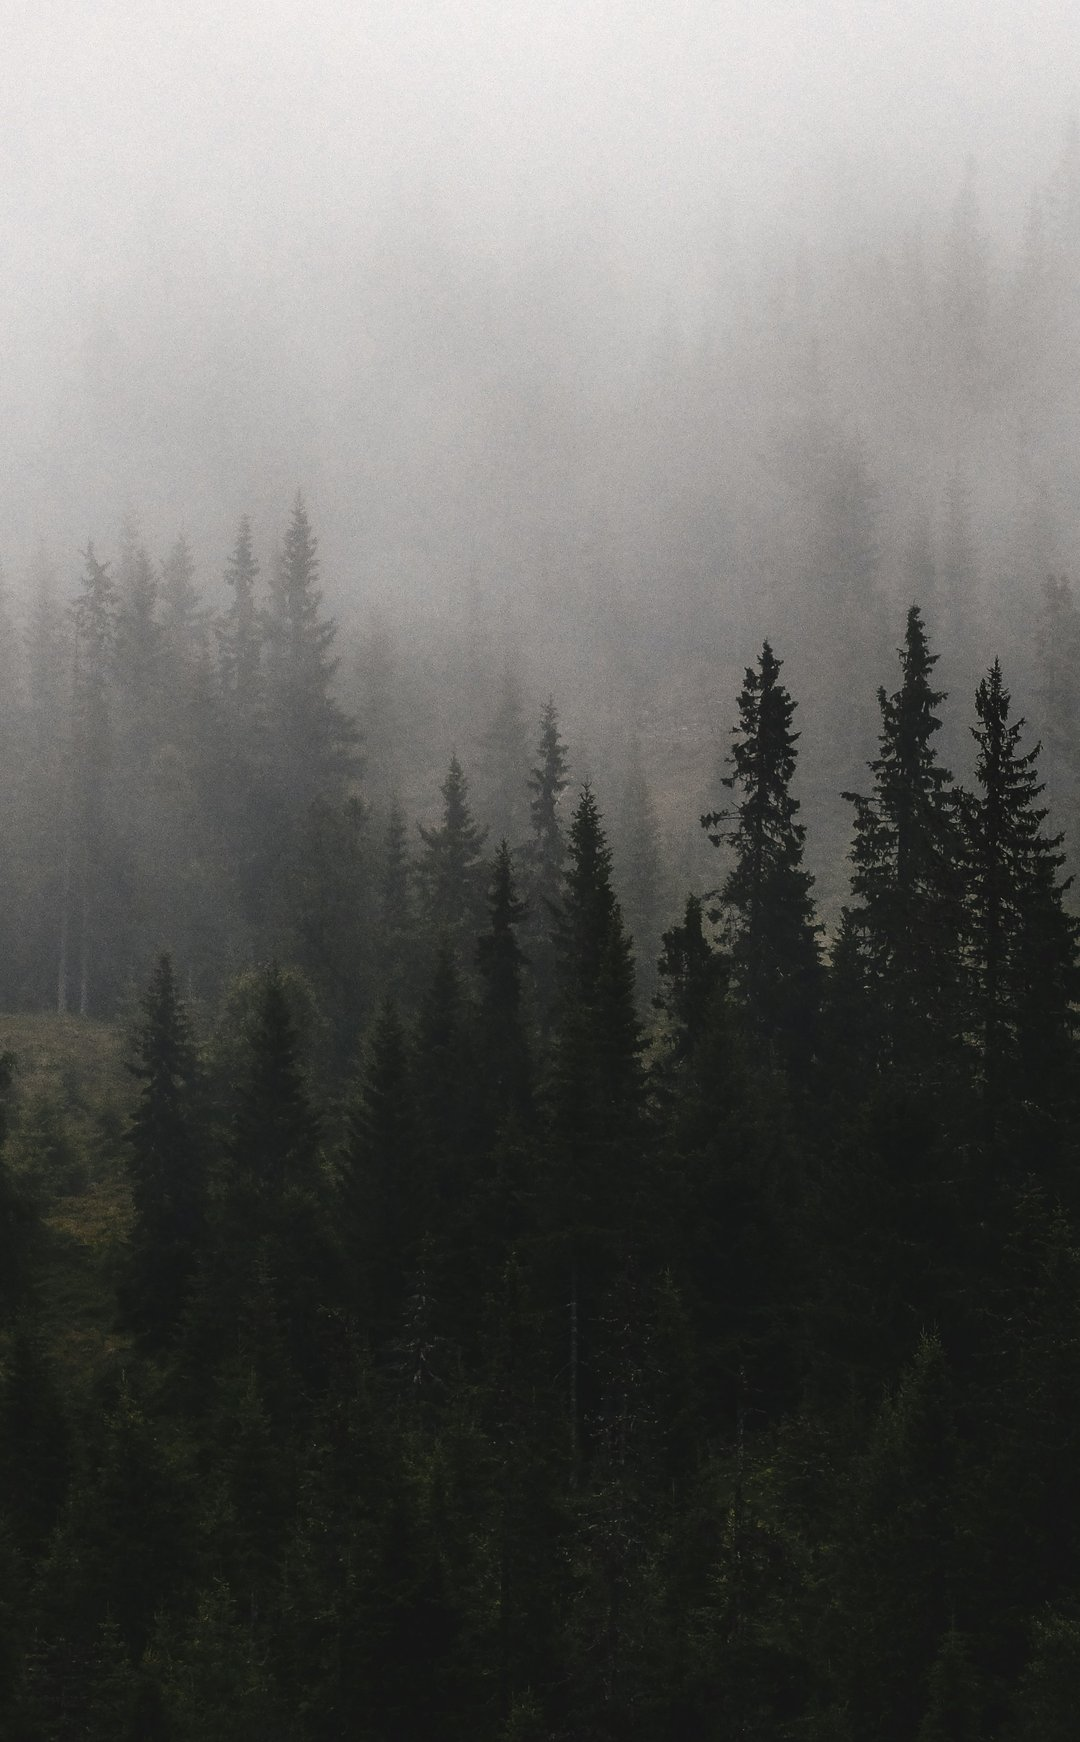
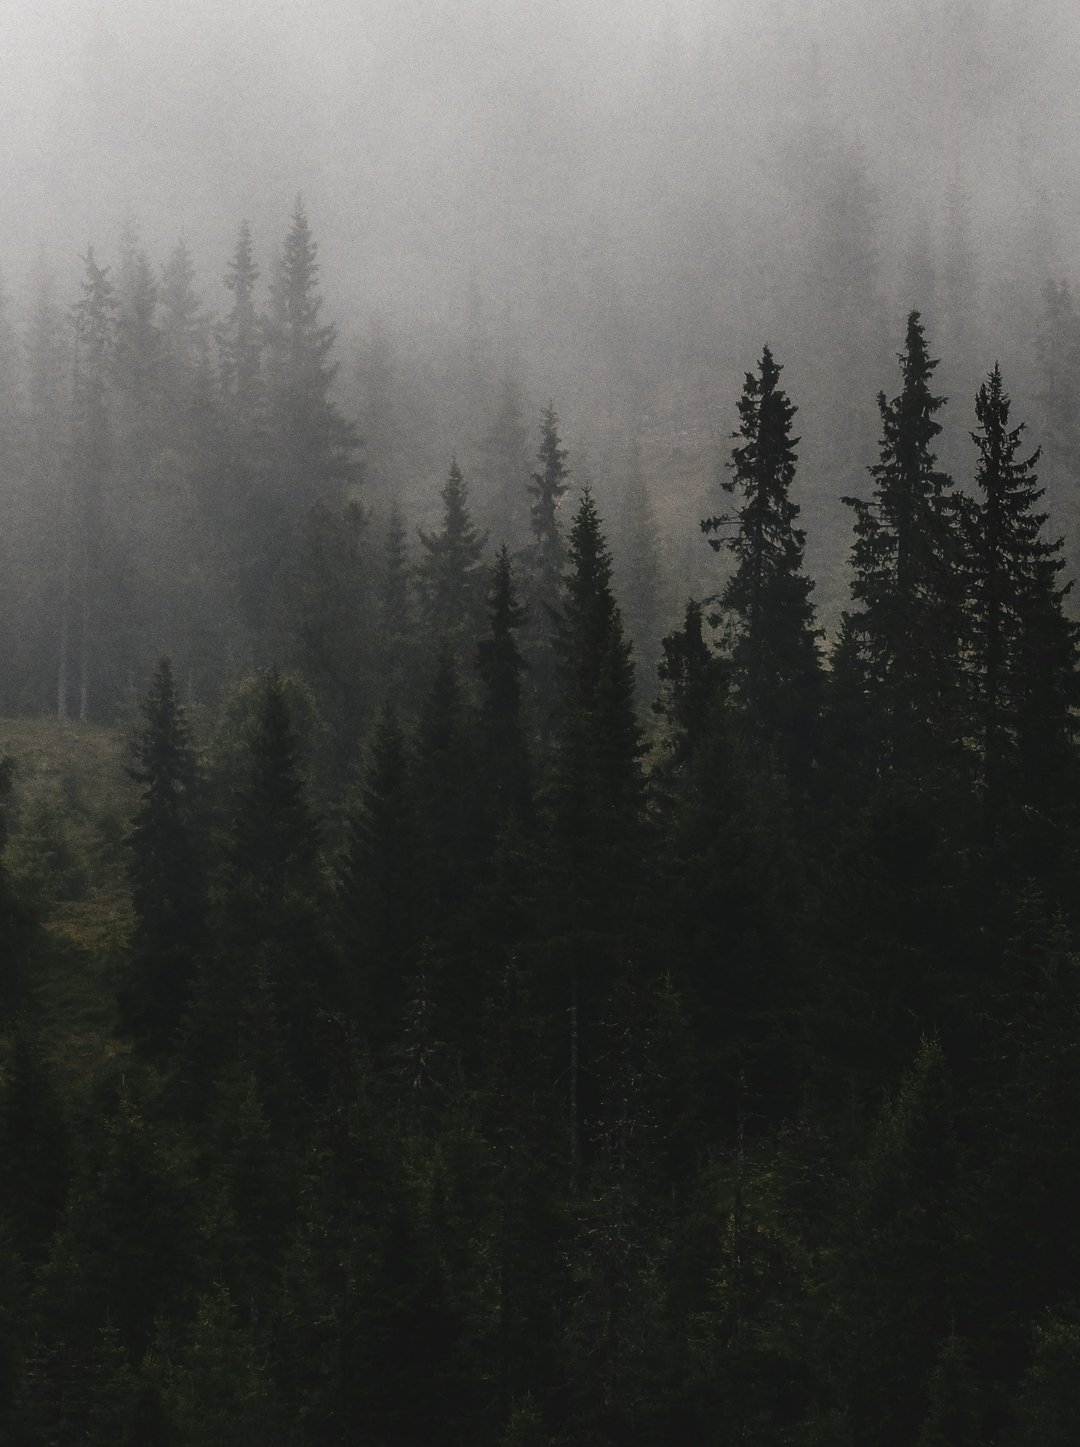
fix: login mobil - varfurile brazilor urca in spatele wordmark-ului
Decupajul anterior folosea deja aproape toata inaltimea sursei (nu mai
era loc sa "coboare" felia fara sa schimb raportul de aspect). Scurtat
efectiv fereastra pe verticala (sar peste mai multa ceata goala de sus)
- varfurile de brad ajung acum vizibile in treimea superioara, ca
siluete subtiri prin ceata, nu masa densa; masa densa ramane doar in
jumatatea de jos. Zona din spatele wordmark-ului ramane calma/cetoasa.

Verificat cu o simulare a crop-ului real de telefon (extractie
centrata la raportul unui ecran ingust, peste noul fisier) inainte de
push, nu doar fisierul brut.

Text-shadow pe wordmark/tagline usor intarit, ca plasa de siguranta
suplimentara acum ca varfurile de copaci sunt mai aproape.

Inchide Pas 4.

diff --git a/components/auth/AuthScreen.jsx b/components/auth/AuthScreen.jsx
@@ -68,8 +68,8 @@ export default function AuthScreen() {
       <div style={{ position: "fixed", top: 0, left: 0, width: "100vw", height: "100vh", background: "radial-gradient(ellipse 60% 45% at 50% 58%, rgba(244,242,237,0.08) 0%, rgba(244,242,237,0) 70%)", zIndex: 1, pointerEvents: "none" }} />
 
       <div style={{ position: "relative", zIndex: 2, width: "100%", maxWidth: 400, display: "flex", flexDirection: "column", alignItems: "center" }}>
-        <h1 style={{ fontFamily: serif, fontSize: 46, fontWeight: 600, color: C.ivory, letterSpacing: "0.02em", margin: "0 0 8px", lineHeight: 1, textShadow: "0 2px 10px rgba(10,16,13,0.75), 0 1px 3px rgba(10,16,13,0.9)" }}>nora</h1>
-        <p style={{ fontFamily: sans, fontSize: 11, color: C.ivory, opacity: 0.9, letterSpacing: "0.07em", margin: "0 0 40px", textAlign: "center", textShadow: "0 2px 8px rgba(10,16,13,0.75), 0 1px 3px rgba(10,16,13,0.9)" }}>
+        <h1 style={{ fontFamily: serif, fontSize: 46, fontWeight: 600, color: C.ivory, letterSpacing: "0.02em", margin: "0 0 8px", lineHeight: 1, textShadow: "0 2px 14px rgba(8,13,10,0.85), 0 1px 4px rgba(8,13,10,1)" }}>nora</h1>
+        <p style={{ fontFamily: sans, fontSize: 11, color: C.ivory, opacity: 0.9, letterSpacing: "0.07em", margin: "0 0 40px", textAlign: "center", textShadow: "0 2px 10px rgba(8,13,10,0.85), 0 1px 4px rgba(8,13,10,1)" }}>
           a quieter way to take care
         </p>
 
